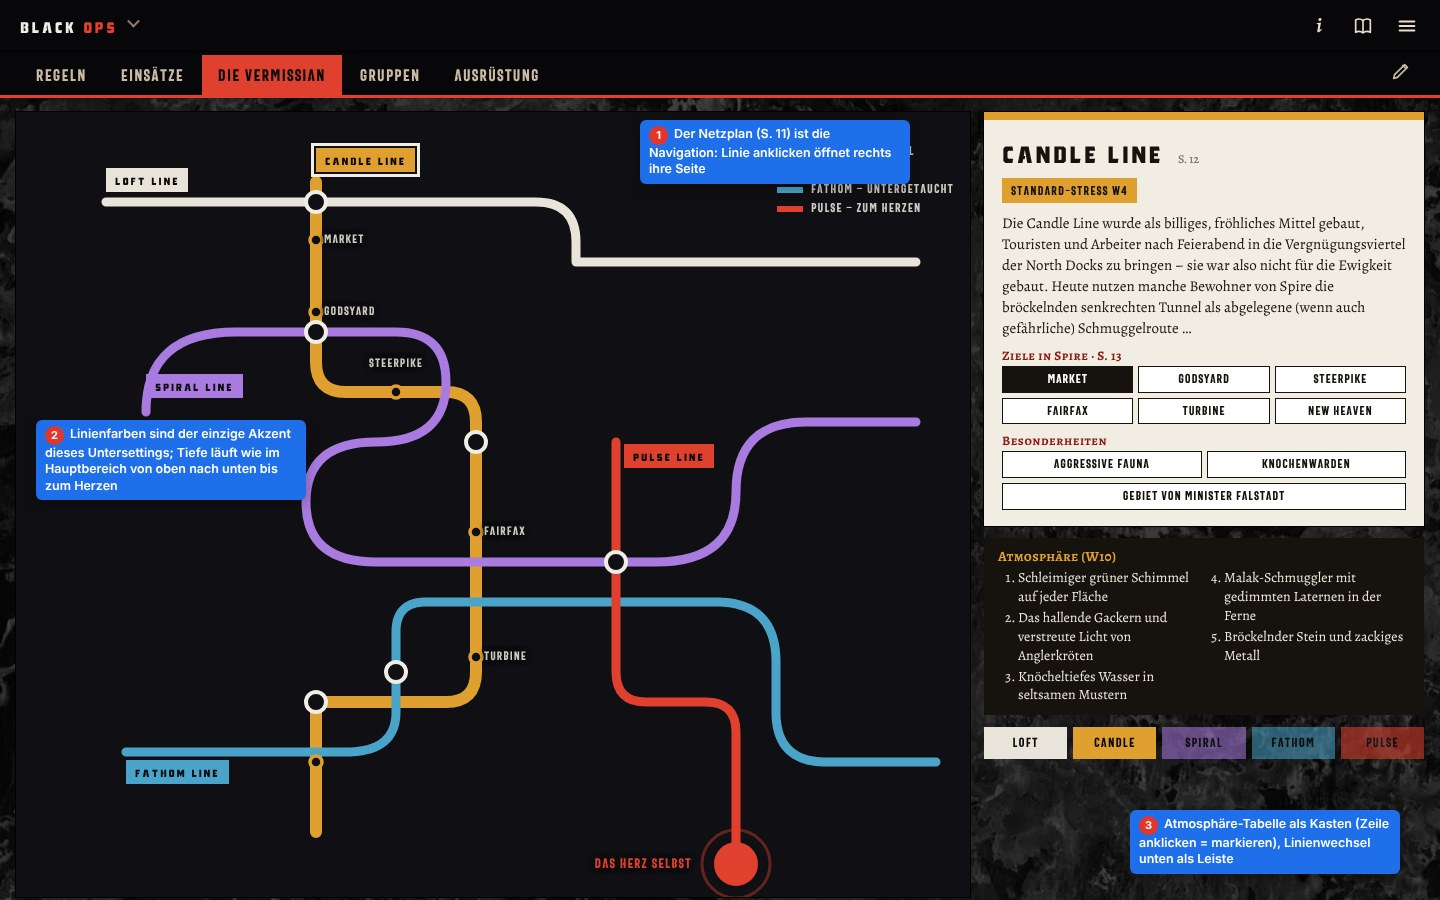
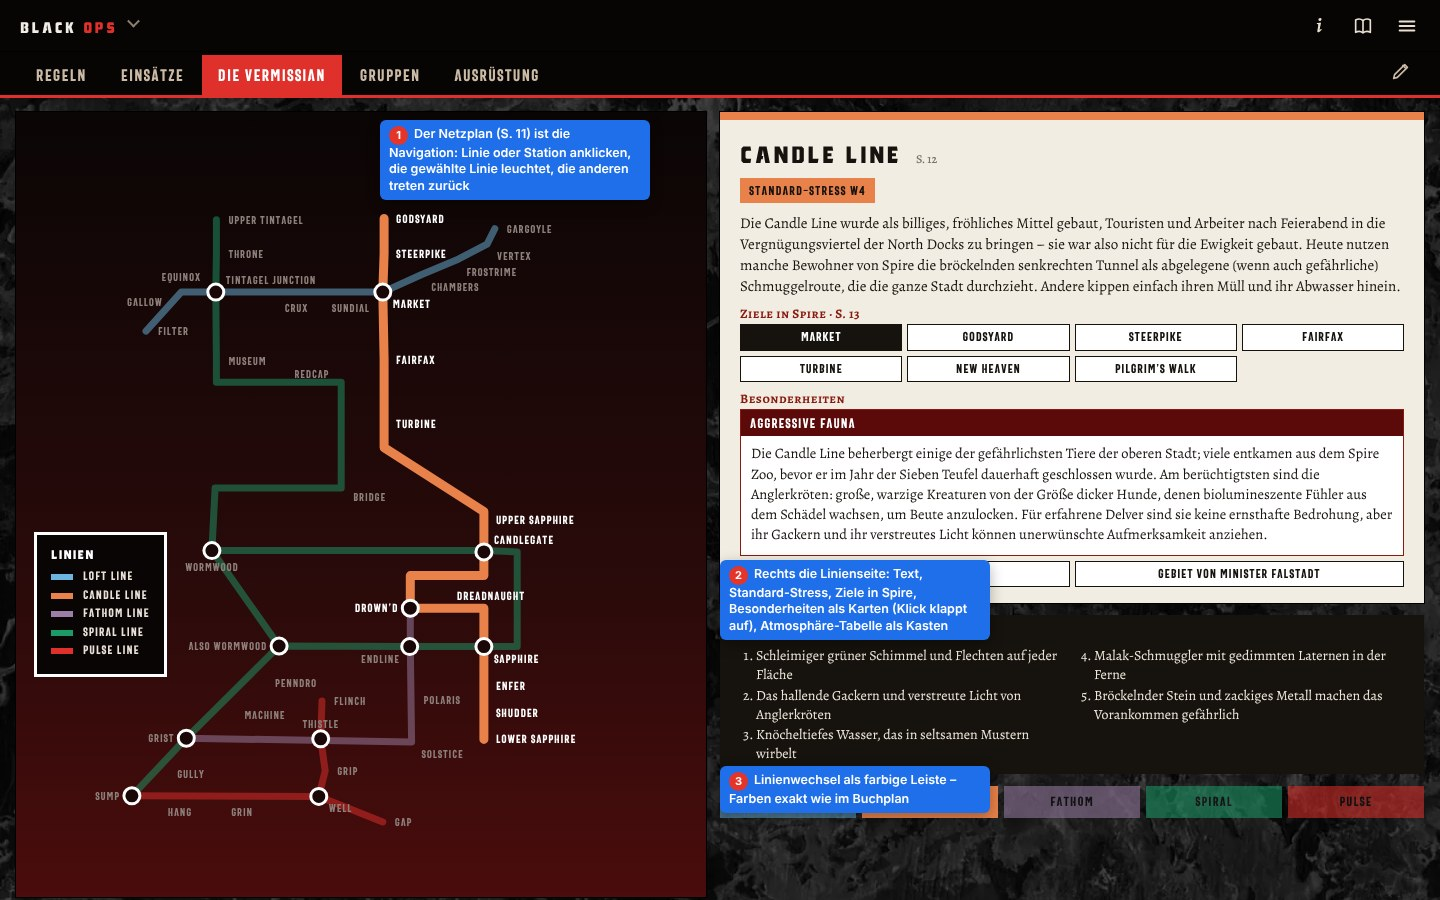
Heart: B&B Idol/Inksmith-Ausstattung korrigiert, Black-Ops-Entwurf nach Netzplan S. 11

diff --git a/plan/heart/mockups/src/m11-blackops.html b/plan/heart/mockups/src/m11-blackops.html
@@ -1,36 +1,35 @@
 <!DOCTYPE html><html lang="de"><head><meta charset="utf-8"><link rel="stylesheet" href="ht.css">
 <style>body{width:1440px;height:900px;overflow:hidden;position:relative;}
 
-:root{--candle:#e0a030;--fathom:#4aa3c8;--spiral:#a97be0;--loft:#e9e4da;--pulse:#e0402e}
-body{background:#0a0a0c url(img/tex-dunkel.webp) center/cover}
-.kopf,.tabs{background:#070709}.tabs{border-bottom-color:#e0402e}
-.tabs a.on{background:#e0402e;color:#0a0a0c}
+body{background:#0a0606 url(img/tex-dunkel.webp) center/cover}
+.kopf,.tabs{background:#070404}.tabs{border-bottom-color:#e0302b}
+.tabs a.on{background:#e0302b;color:#fff}
 .logo b{font:400 22px/1 "HT BoldSans",var(--plate);letter-spacing:.1em;color:#f0ede6;text-transform:uppercase}
-.logo b i{font-style:normal;color:#e0402e}
-.feld{display:grid;grid-template-columns:1fr 440px;gap:14px;padding:14px 16px 0;height:799px}
-.plan{position:relative;background:#101014;box-shadow:0 0 0 1px #000;height:785px;overflow:hidden}
+.logo b i{font-style:normal;color:#e0302b}
+.feld{display:grid;grid-template-columns:690px 1fr;gap:14px;padding:14px 16px 0;height:799px}
+.plan{position:relative;background:linear-gradient(180deg,#0a0505 0%,#2a0a0a 60%,#4a0c0c 100%);box-shadow:0 0 0 1px #000;height:785px;overflow:hidden}
 .plan svg{position:absolute;inset:0}
-.pl{position:absolute;font:400 15px/1 "HT BoldSans",var(--plate);letter-spacing:.12em;text-transform:uppercase;padding:5px 9px 4px;color:#0a0a0c;z-index:3}
-.st{text-shadow:0 0 4px #101014,0 0 4px #101014,0 0 6px #101014;position:absolute;transform:translate(8px,-50%);font:500 12.5px/1 var(--plate);letter-spacing:.08em;text-transform:uppercase;color:#cfcac0;z-index:3;white-space:nowrap}
-.st.l{transform:translate(calc(-100% - 8px),-50%)}
-.ger{position:absolute;right:16px;top:14px;display:flex;flex-direction:column;gap:6px;z-index:3}
-.ger span{font:400 13px/1 var(--plate);letter-spacing:.08em;text-transform:uppercase;color:#cfcac0;display:flex;align-items:center;gap:8px}
-.ger i{display:inline-block;width:26px;height:6px}
+.t{font:400 11.5px "HT Sans",var(--plate);letter-spacing:.07em;text-transform:uppercase;fill:#8d7f7a}
+.t.c{fill:#fff;font-size:12px}
+.leg{position:absolute;left:18px;top:420px;border:3px solid #fff;background:#0a0505;padding:10px 14px;z-index:3}
+.leg b{display:block;font:400 18px/1 "HT BoldSans",var(--plate);letter-spacing:.06em;color:#fff;margin-bottom:8px;text-transform:uppercase}
+.leg span{display:flex;align-items:center;gap:10px;font:400 12.5px/1 var(--plate);letter-spacing:.08em;text-transform:uppercase;color:#e9e1d8;margin-bottom:6px}
+.leg i{display:inline-block;width:22px;height:6px}
 .rechts{display:flex;flex-direction:column;gap:12px;height:785px}
-.panel{background:#f2ede2;color:#16120d;padding:16px 18px;box-shadow:0 0 0 1px #000;border-top:8px solid var(--candle)}
+.panel{background:#f2ede2;color:#16120d;padding:16px 20px;box-shadow:0 0 0 1px #000;border-top:8px solid #e8814a}
 .panel h2{font:400 34px/1 "HT BoldSans",var(--plate);letter-spacing:.06em;text-transform:uppercase;margin:0 0 6px;color:#16120d}
 .panel h2 .s{font:500 12px var(--body);color:#7a746a;letter-spacing:0}
 .panel p{font-size:15px;line-height:1.4;margin:0 0 7px}
 .panel .meta{display:flex;gap:10px;margin:8px 0 10px}
 .panel .meta span{font:400 13px/1 var(--plate);letter-spacing:.08em;text-transform:uppercase;border:1.5px solid #16120d;padding:6px 8px 4px}
-.panel .meta span.k{background:var(--candle);border-color:var(--candle)}
+.panel .meta span.k{background:#e8814a;border-color:#e8814a}
 .lbl2{font:700 13px/1 var(--sc);color:#8a1a10;letter-spacing:.04em;margin:10px 0 4px}
-.zielz{display:grid;grid-template-columns:repeat(3,1fr);gap:5px}
+.zielz{display:grid;grid-template-columns:repeat(4,1fr);gap:5px}
 .zielz div{border:1.5px solid #16120d;padding:6px 6px 5px;font:400 13px/1.05 var(--plate);letter-spacing:.06em;text-transform:uppercase;text-align:center;background:#fff}
 .zielz div.on{background:#16120d;color:#fff}
-.atm{background:#16120d;color:#efe8dc;padding:10px 14px;font-size:14px;line-height:1.35}
-.atm .lbl{color:#e0a030}
-.atm ol{margin:4px 0 0;padding-left:20px;columns:2;column-gap:20px}
+.atm{background:#16120d;color:#efe8dc;padding:10px 16px;font-size:14px;line-height:1.35}
+.atm .lbl{color:#e8814a}
+.atm ol{margin:4px 0 0;padding-left:20px;columns:2;column-gap:24px}
 .atm li{margin-bottom:2px}
 .tn{display:flex;gap:6px}
 .tn a{flex:1;text-align:center;font:400 13.5px/1 var(--plate);letter-spacing:.08em;text-transform:uppercase;padding:10px 4px 8px;color:#0a0a0c;opacity:.55;cursor:pointer}
@@ -40,49 +39,26 @@ body{background:#0a0a0c url(img/tex-dunkel.webp) center/cover}
 <button class="ik"><svg viewBox="0 0 24 24" fill="none" stroke-width="1.8" stroke-linejoin="round"><path d="M4 5.5C6.5 4 9.5 4 12 6c2.5-2 5.5-2 8-.5V19c-2.5-1.5-5.5-1.5-8 .5-2.5-2-5.5-2-8-.5z"/><path d="M12 6v13.5"/></svg></button>
 <button class="ik"><svg viewBox="0 0 24 24" fill="none" stroke-width="2.2" stroke-linecap="round"><path d="M4 7h16M4 12h16M4 17h16"/></svg></button></div>
 <div class="tabs"><a class="">Regeln</a><a class="">Einsätze</a><a class="on">Die Vermissian</a><a class="">Gruppen</a><a class="">Ausrüstung</a><span class="sp"></span><button class="ik stift"><svg viewBox="0 0 24 24" fill="none" stroke-width="1.8" stroke-linecap="round" stroke-linejoin="round"><path d="M4 20l4-1 11-11-3-3L5 16z"/><path d="M14 6l3 3"/></svg></button></div>
-<div class="x"></div>
+
 <div class="feld"><div class="plan">
-<svg width="1000" height="785" viewBox="0 0 1000 785" fill="none" stroke-linecap="round" stroke-linejoin="round">
- <!-- Loft: oben, Silber, horizontal -->
- <path d="M90 90 H520 Q560 90 560 130 V150 H900" stroke="#e9e4da" stroke-width="9"/>
- <!-- Candle: senkrecht, Bernstein, über die ganze Höhe -->
- <path d="M300 70 V250 Q300 280 330 280 H430 Q460 280 460 310 V560 Q460 590 430 590 H300 V720" stroke="#e0a030" stroke-width="12"/>
- <!-- Spiral: gewundene Mitte -->
- <path d="M130 300 Q130 220 220 220 H380 Q430 220 430 270 Q430 330 360 330 Q290 330 290 390 Q290 450 360 450 H640 Q720 450 720 380 Q720 310 790 310 H900" stroke="#a97be0" stroke-width="9"/>
- <!-- Fathom: unten, Blau, getaucht -->
- <path d="M110 640 H330 Q380 640 380 600 V520 Q380 490 410 490 H700 Q760 490 760 550 V600 Q760 650 810 650 H920" stroke="#4aa3c8" stroke-width="9" stroke-dasharray="1 0"/>
- <!-- Pulse: tief, Rot, zum Herzen -->
- <path d="M600 330 V560 Q600 590 630 590 H690 Q720 590 720 620 V740" stroke="#e0402e" stroke-width="9"/>
- <!-- Umsteige-Knoten -->
- <g fill="#101014" stroke="#f0ede6" stroke-width="4"><circle cx="300" cy="90" r="10"/><circle cx="460" cy="330" r="10"/><circle cx="300" cy="590" r="10"/><circle cx="600" cy="450" r="10"/><circle cx="380" cy="560" r="10"/><circle cx="300" cy="220" r="10"/></g>
- <!-- Stationen Candle -->
- <g fill="#101014" stroke="#e0a030" stroke-width="3.5"><circle cx="300" cy="128" r="6"/><circle cx="300" cy="200" r="6"/><circle cx="380" cy="280" r="6"/><circle cx="460" cy="420" r="6"/><circle cx="460" cy="545" r="6"/><circle cx="300" cy="650" r="6"/></g>
- <!-- Herz -->
- <circle cx="720" cy="752" r="22" fill="#e0402e"/><circle cx="720" cy="752" r="34" fill="none" stroke="#e0402e" stroke-opacity=".4" stroke-width="3"/>
-</svg>
-<div class="pl" style="left:90px;top:56px;background:#e9e4da">Loft Line</div>
-<div class="pl" style="left:300px;top:36px;background:#e0a030;outline:3px solid #f2ede2;outline-offset:2px">Candle Line</div>
-<div class="pl" style="left:130px;top:262px;background:#a97be0">Spiral Line</div>
-<div class="pl" style="left:110px;top:648px;background:#4aa3c8">Fathom Line</div>
-<div class="pl" style="left:608px;top:332px;background:#e0402e">Pulse Line</div>
-<div class="st" style="left:300px;top:128px">Market</div><div class="st" style="left:300px;top:200px">Godsyard</div><div class="st" style="left:380px;top:252px;transform:translate(-50%,-50%)">Steerpike</div><div class="st" style="left:460px;top:420px">Fairfax</div><div class="st" style="left:460px;top:545px">Turbine</div>
-<div class="st l" style="left:684px;top:752px;font-size:14px;color:#e0402e">Das Herz selbst</div>
-<div class="ger"><span><i style="background:#e9e4da"></i>Loft – nur Aelfir</span><span><i style="background:#e0a030"></i>Candle – vertikal</span><span><i style="background:#a97be0"></i>Spiral – Mitte</span><span><i style="background:#4aa3c8"></i>Fathom – untergetaucht</span><span><i style="background:#e0402e"></i>Pulse – zum Herzen</span></div>
+<svg width="690" height="785"><path d="M130.0 219.1 L165.2 180.1 L199.8 180.1 L280.4 180.1 L334.8 180.1 L366.8 180.1 L405.2 162.8 L440.4 148.1 L471.1 132.1 L478.8 116.7" stroke="#6bb5de" stroke-width="7" stroke-opacity=".5" fill="none" stroke-linecap="round" stroke-linejoin="round"/><path d="M368.1 106.5 L368.1 141.7 L366.8 180.1 L368.1 247.9 L368.1 311.9 L368.1 335.6 L467.9 399.6 L467.9 439.9 L467.9 463.6 L394.3 463.6 L394.3 496.2 L467.9 496.2 L467.9 534.6 L467.9 627.4" stroke="#e8814a" stroke-width="9" stroke-opacity="1" fill="none" stroke-linecap="round" stroke-linejoin="round"/><path d="M200.4 107.8 L200.4 142.3 L199.8 180.1 L200.4 248.6 L200.4 270.3 L325.2 270.3 L325.2 375.9 L199.1 375.9 L195.9 438.6 L467.9 438.6 L501.2 439.9 L501.2 534.6 L393.7 534.6 L263.1 534.0 L170.3 626.2 L115.9 683.8" stroke="#1b9a68" stroke-width="7" stroke-opacity=".5" fill="none" stroke-linecap="round" stroke-linejoin="round"/><path d="M195.9 438.6 L263.1 534.0" stroke="#1b9a68" stroke-width="7" stroke-opacity=".5" fill="none" stroke-linecap="round" stroke-linejoin="round"/><path d="M394.3 496.2 L394.3 534.6 L395.6 630.0 L170.3 626.2" stroke="#9b7fa6" stroke-width="7" stroke-opacity=".5" fill="none" stroke-linecap="round" stroke-linejoin="round"/><path d="M306.0 589.0 L304.7 626.8 L309.2 658.8 L302.8 684.4 L366.8 710.0" stroke="#e0302b" stroke-width="7" stroke-opacity=".5" fill="none" stroke-linecap="round" stroke-linejoin="round"/><path d="M115.9 683.8 L302.8 684.4" stroke="#e0302b" stroke-width="7" stroke-opacity=".5" fill="none" stroke-linecap="round" stroke-linejoin="round"/><circle cx="199.8" cy="180.1" r="8" fill="#1a0808" stroke="#fff" stroke-width="3" /><circle cx="366.8" cy="180.1" r="8" fill="#1a0808" stroke="#fff" stroke-width="3" /><circle cx="195.9" cy="438.6" r="8" fill="#1a0808" stroke="#fff" stroke-width="3" /><circle cx="467.9" cy="439.9" r="8" fill="#1a0808" stroke="#fff" stroke-width="3" /><circle cx="263.1" cy="534.0" r="8" fill="#1a0808" stroke="#fff" stroke-width="3" /><circle cx="393.7" cy="534.6" r="8" fill="#1a0808" stroke="#fff" stroke-width="3" /><circle cx="467.9" cy="534.6" r="8" fill="#1a0808" stroke="#fff" stroke-width="3" /><circle cx="394.3" cy="496.2" r="8" fill="#1a0808" stroke="#fff" stroke-width="3" /><circle cx="170.3" cy="626.2" r="8" fill="#1a0808" stroke="#fff" stroke-width="3" /><circle cx="304.7" cy="626.8" r="8" fill="#1a0808" stroke="#fff" stroke-width="3" /><circle cx="115.9" cy="683.8" r="8" fill="#1a0808" stroke="#fff" stroke-width="3" /><circle cx="302.8" cy="684.4" r="8" fill="#1a0808" stroke="#fff" stroke-width="3" /><text x="142.0" y="223.1" text-anchor="start" class="t">Filter</text><text x="165.2" y="169.1" text-anchor="middle" class="t">Equinox</text><text x="146.8" y="193.7" text-anchor="end" class="t">Gallow</text><text x="209.8" y="172.1" text-anchor="start" class="t">Tintagel Junction</text><text x="280.4" y="200.1" text-anchor="middle" class="t">Crux</text><text x="334.8" y="200.1" text-anchor="middle" class="t">Sundial</text><text x="376.8" y="196.1" text-anchor="start" class="t c">Market</text><text x="415.2" y="178.8" text-anchor="start" class="t">Chambers</text><text x="450.4" y="164.1" text-anchor="start" class="t">Frostrime</text><text x="481.1" y="148.1" text-anchor="start" class="t">Vertex</text><text x="490.8" y="120.7" text-anchor="start" class="t">Gargoyle</text><text x="380.1" y="110.5" text-anchor="start" class="t c">Godsyard</text><text x="380.1" y="145.7" text-anchor="start" class="t c">Steerpike</text><text x="380.1" y="251.9" text-anchor="start" class="t c">Fairfax</text><text x="380.1" y="315.9" text-anchor="start" class="t c">Turbine</text><text x="479.9" y="411.9" text-anchor="start" class="t c">Upper Sapphire</text><text x="477.9" y="431.9" text-anchor="start" class="t c">Candlegate</text><text x="382.3" y="500.2" text-anchor="end" class="t c">Drown’d</text><text x="440.8" y="488.2" text-anchor="start" class="t c">Dreadnaught</text><text x="477.9" y="550.6" text-anchor="start" class="t c">Sapphire</text><text x="479.9" y="578.3" text-anchor="start" class="t c">Enfer</text><text x="479.9" y="605.2" text-anchor="start" class="t c">Shudder</text><text x="479.9" y="631.4" text-anchor="start" class="t c">Lower Sapphire</text><text x="212.4" y="111.8" text-anchor="start" class="t">Upper Tintagel</text><text x="212.4" y="146.3" text-anchor="start" class="t">Throne</text><text x="212.4" y="252.6" text-anchor="start" class="t">Museum</text><text x="313.2" y="266.0" text-anchor="end" class="t">Redcap</text><text x="337.2" y="388.9" text-anchor="start" class="t">Bridge</text><text x="195.9" y="458.6" text-anchor="middle" class="t">Wormwood</text><text x="251.10000000000002" y="538.0" text-anchor="end" class="t">Also Wormwood</text><text x="383.7" y="550.6" text-anchor="end" class="t">Endline</text><text x="259.1" y="575.1" text-anchor="start" class="t">Penndro</text><text x="228.4" y="607.1" text-anchor="start" class="t">Machine</text><text x="158.3" y="630.2" text-anchor="end" class="t">Grist</text><text x="161.2" y="666.0" text-anchor="start" class="t">Gully</text><text x="103.9" y="687.8" text-anchor="end" class="t">Sump</text><text x="407.6" y="592.4" text-anchor="start" class="t">Polaris</text><text x="405.6" y="646.0" text-anchor="start" class="t">Solstice</text><text x="304.7" y="615.8" text-anchor="middle" class="t">Thistle</text><text x="312.8" y="700.4" text-anchor="start" class="t">Well</text><text x="321.2" y="662.8" text-anchor="start" class="t">Grip</text><text x="318.0" y="593.0" text-anchor="start" class="t">Flinch</text><text x="378.8" y="714.0" text-anchor="start" class="t">Gap</text><text x="163.9" y="704.4" text-anchor="middle" class="t">Hang</text><text x="226.0" y="704.4" text-anchor="middle" class="t">Grin</text></svg>
+<div class="leg"><b>Linien</b><span><i style="background:#6bb5de"></i>Loft Line</span><span><i style="background:#e8814a"></i>Candle Line</span><span><i style="background:#9b7fa6"></i>Fathom Line</span><span><i style="background:#1b9a68"></i>Spiral Line</span><span><i style="background:#e0302b"></i>Pulse Line</span></div>
 </div>
 <div class="rechts">
  <div class="panel"><h2>Candle Line <span class="s">S. 12</span></h2>
   <div class="meta"><span class="k">Standard-Stress W4</span></div>
-  <p>Die Candle Line wurde als billiges, fröhliches Mittel gebaut, Touristen und Arbeiter nach Feierabend in die Vergnügungsviertel der North Docks zu bringen – sie war also nicht für die Ewigkeit gebaut. Heute nutzen manche Bewohner von Spire die bröckelnden senkrechten Tunnel als abgelegene (wenn auch gefährliche) Schmuggelroute …</p>
+  <p>Die Candle Line wurde als billiges, fröhliches Mittel gebaut, Touristen und Arbeiter nach Feierabend in die Vergnügungsviertel der North Docks zu bringen – sie war also nicht für die Ewigkeit gebaut. Heute nutzen manche Bewohner von Spire die bröckelnden senkrechten Tunnel als abgelegene (wenn auch gefährliche) Schmuggelroute, die die ganze Stadt durchzieht. Andere kippen einfach ihren Müll und ihr Abwasser hinein.</p>
   <div class="lbl2">Ziele in Spire · S. 13</div>
-  <div class="zielz"><div class="on">Market</div><div>Godsyard</div><div>Steerpike</div><div>Fairfax</div><div>Turbine</div><div>New Heaven</div></div>
+  <div class="zielz"><div class="on">Market</div><div>Godsyard</div><div>Steerpike</div><div>Fairfax</div><div>Turbine</div><div>New Heaven</div><div>Pilgrim’s Walk</div></div>
   <div class="lbl2">Besonderheiten</div>
-  <div class="zielz" style="grid-template-columns:1fr 1fr"><div>Aggressive Fauna</div><div>Knochenwarden</div><div style="grid-column:1/-1">Gebiet von Minister Falstadt</div></div>
+  <div style="border:1.5px solid #8a1a10;background:#fff"><div style="background:#5b0909;color:#fff;font:400 14px/1 var(--plate);letter-spacing:.07em;text-transform:uppercase;padding:7px 9px 5px">Aggressive Fauna</div><p style="padding:7px 10px 3px;font-size:14.5px">Die Candle Line beherbergt einige der gefährlichsten Tiere der oberen Stadt; viele entkamen aus dem Spire Zoo, bevor er im Jahr der Sieben Teufel dauerhaft geschlossen wurde. Am berüchtigtsten sind die Anglerkröten: große, warzige Kreaturen von der Größe dicker Hunde, denen biolumineszente Fühler aus dem Schädel wachsen, um Beute anzulocken. Für erfahrene Delver sind sie keine ernsthafte Bedrohung, aber ihr Gackern und ihr verstreutes Licht können unerwünschte Aufmerksamkeit anziehen.</p></div>
+  <div class="zielz" style="grid-template-columns:1fr 1fr;margin-top:5px"><div>Knochenwarden</div><div>Gebiet von Minister Falstadt</div></div>
  </div>
- <div class="atm"><div class="lbl">Atmosphäre (W10)</div><ol><li>Schleimiger grüner Schimmel auf jeder Fläche</li><li>Das hallende Gackern und verstreute Licht von Anglerkröten</li><li>Knöcheltiefes Wasser in seltsamen Mustern</li><li>Malak-Schmuggler mit gedimmten Laternen in der Ferne</li><li>Bröckelnder Stein und zackiges Metall</li></ol></div>
- <div class="tn"><a class="on" style="background:#e9e4da">Loft</a><a class="on" style="background:#e0a030">Candle</a><a style="background:#a97be0">Spiral</a><a style="background:#4aa3c8">Fathom</a><a style="background:#e0402e">Pulse</a></div>
+ <div class="atm"><div class="lbl">Atmosphäre (W10)</div><ol><li>Schleimiger grüner Schimmel und Flechten auf jeder Fläche</li><li>Das hallende Gackern und verstreute Licht von Anglerkröten</li><li>Knöcheltiefes Wasser, das in seltsamen Mustern wirbelt</li><li>Malak-Schmuggler mit gedimmten Laternen in der Ferne</li><li>Bröckelnder Stein und zackiges Metall machen das Vorankommen gefährlich</li></ol></div>
+ <div class="tn"><a style="background:#6bb5de">Loft</a><a class="on" style="background:#e8814a">Candle</a><a style="background:#9b7fa6">Fathom</a><a style="background:#1b9a68">Spiral</a><a style="background:#e0302b">Pulse</a></div>
 </div></div>
-<div class="ann" style="left:640px;top:120px"><b>1</b>Der Netzplan (S. 11) ist die Navigation: Linie anklicken öffnet rechts ihre Seite</div>
-<div class="ann" style="left:36px;top:420px"><b>2</b>Linienfarben sind der einzige Akzent dieses Untersettings; Tiefe läuft wie im Hauptbereich von oben nach unten bis zum Herzen</div>
-<div class="ann" style="left:1130px;top:810px"><b>3</b>Atmosphäre-Tabelle als Kasten (Zeile anklicken = markieren), Linienwechsel unten als Leiste</div>
+<div class="ann" style="left:380px;top:120px"><b>1</b>Der Netzplan (S. 11) ist die Navigation: Linie oder Station anklicken, die gewählte Linie leuchtet, die anderen treten zurück</div>
+<div class="ann" style="left:720px;top:560px"><b>2</b>Rechts die Linienseite: Text, Standard-Stress, Ziele in Spire, Besonderheiten als Karten (Klick klappt auf), Atmosphäre-Tabelle als Kasten</div>
+<div class="ann" style="left:720px;top:766px"><b>3</b>Linienwechsel als farbige Leiste – Farben exakt wie im Buchplan</div>
 
 </body></html>

diff --git a/heart/js/data/nach-charaktere-bb.js b/heart/js/data/nach-charaktere-bb.js
@@ -93,7 +93,7 @@ C.subs.push({id:"herkuenfte", t:"Herkünfte", secs:[
    ["Maestro","+1 **Mind**-Schutz. Einmal pro Sitzung wähle eines: Wenn ein naher Verbündeter leichten **Mind**-Fallout erleidet, beruhigst du ihn und der Fallout hat keine Wirkung; oder wenn ein naher Verbündeter schweren **Mind**-Fallout erleidet, stufst du ihn auf **leicht** herab, bevor er wirkt."],
    ["Mit Blut malen","Erhalte den Skill **Kill**. Hast du keinen anhaltenden Fallout gegen dich markiert, erhalten deine Angriffe den Tag **Brutal**."],
    ["Bosheit","Würfle **Compel+Occult**, um diesen Zauber auf ein Ziel zu wirken, das du sehen kannst. Bei Erfolg schlägt das Ziel gegen sich selbst aus. Es markiert W6 Stress, wenn es unbewaffnet ist, und W8 Stress, wenn es eine Waffe hält."]],
-  "Compel","Occult","Grackler-Pistole (**Kill W8, Ranged, Loud, One-shot**) · Zerbrochenes Rapier (**Kill W6**)"),
+  "Compel","Occult","Klinge (**Kill W6**)"),
  orig("inksmith","Inksmith",14,
   "Du warst ein Journalist-Magier, der Zauber aus dem kulturellen Zeitgeist der Stadt oben spann. Hier unten, weit von der nächsten Druckerpresse oder dem nächsten reißerischen Magazin, musst du dich statt auf deine Zauberei auf dich selbst verlassen, um dich zu schützen.",
   [["Nase für Ärger","Erhalte den Skill **Discern**."],["Jedermanns bester Freund","Erhalte die Domain **Haven**."],["Raue Schale","+1 **Blood**-Schutz."],["Glücksfall","+1 **Fortune**-Schutz."],["Kopf runter","Erhalte den Skill **Evade**."],["Abenteurer","Erhalte den Skill **Delve**."],["Lebemann","+1 **Mind**-Schutz."]],
@@ -101,7 +101,7 @@ C.subs.push({id:"herkuenfte", t:"Herkünfte", secs:[
    ["Vertrau mir","+1 **Supplies**-Schutz. In der ersten bewohnten Landmarke, die du erreichst, wartet eine Bindung auf dich – jemand, der wusste, dass du kommst."],
    ["K.-o.-Schlag","Würfle **Compel+Occult**, um diesen Zauber zu wirken. Bei Erfolg erhältst du den Skill **Kill**, und der erste Faustangriff gegen jedes sterbliche humanoide Ziel verursacht W8 Schaden. Reduzierst du es auf 0 Resistenz, wird es bewusstlos geschlagen (aber nicht getötet). Diese Effekte halten bis zum Ende der aktuellen Situation an."],
    ["Namenloses Grauen","Würfle **Compel+Occult**, um diesen Zauber zu wirken. Bei Erfolg erleidet ein sterbliches humanoides Ziel, das du sehen und hören kannst, W6 Stress durch Furcht und versucht zu fliehen."]],
-  "Compel","Occult","Klinge (**Kill W6**)"),
+  "Compel","Occult","Grackler-Pistole (**Kill W8, Ranged, Loud, One-shot**) · Zerbrochenes Rapier (**Kill W6**)"),
  orig("knight","Knight",15,
   "Du warst Mitglied eines von hundert Ritterorden, denen die Aelfir erlauben, die Flussdocks von Spire zu überwachen; du warst Knochenbrecher, Erpresser und Schurke.",
   [["Gesegnet","Erhalte die Domain **Religion**."],["Verzaubert","+1 **Fortune**-Schutz."],["Gesetz des Landes","Erhalte den Skill **Hunt**."],["Optimist","+1 **Mind**-Schutz."],["Überzeugend","Erhalte den Skill **Compel**."],["Plattenpanzer-Überreste","+1 **Blood**-Schutz."],["Straßenkämpfer","Erhalte die Domain **Warren**."]],
